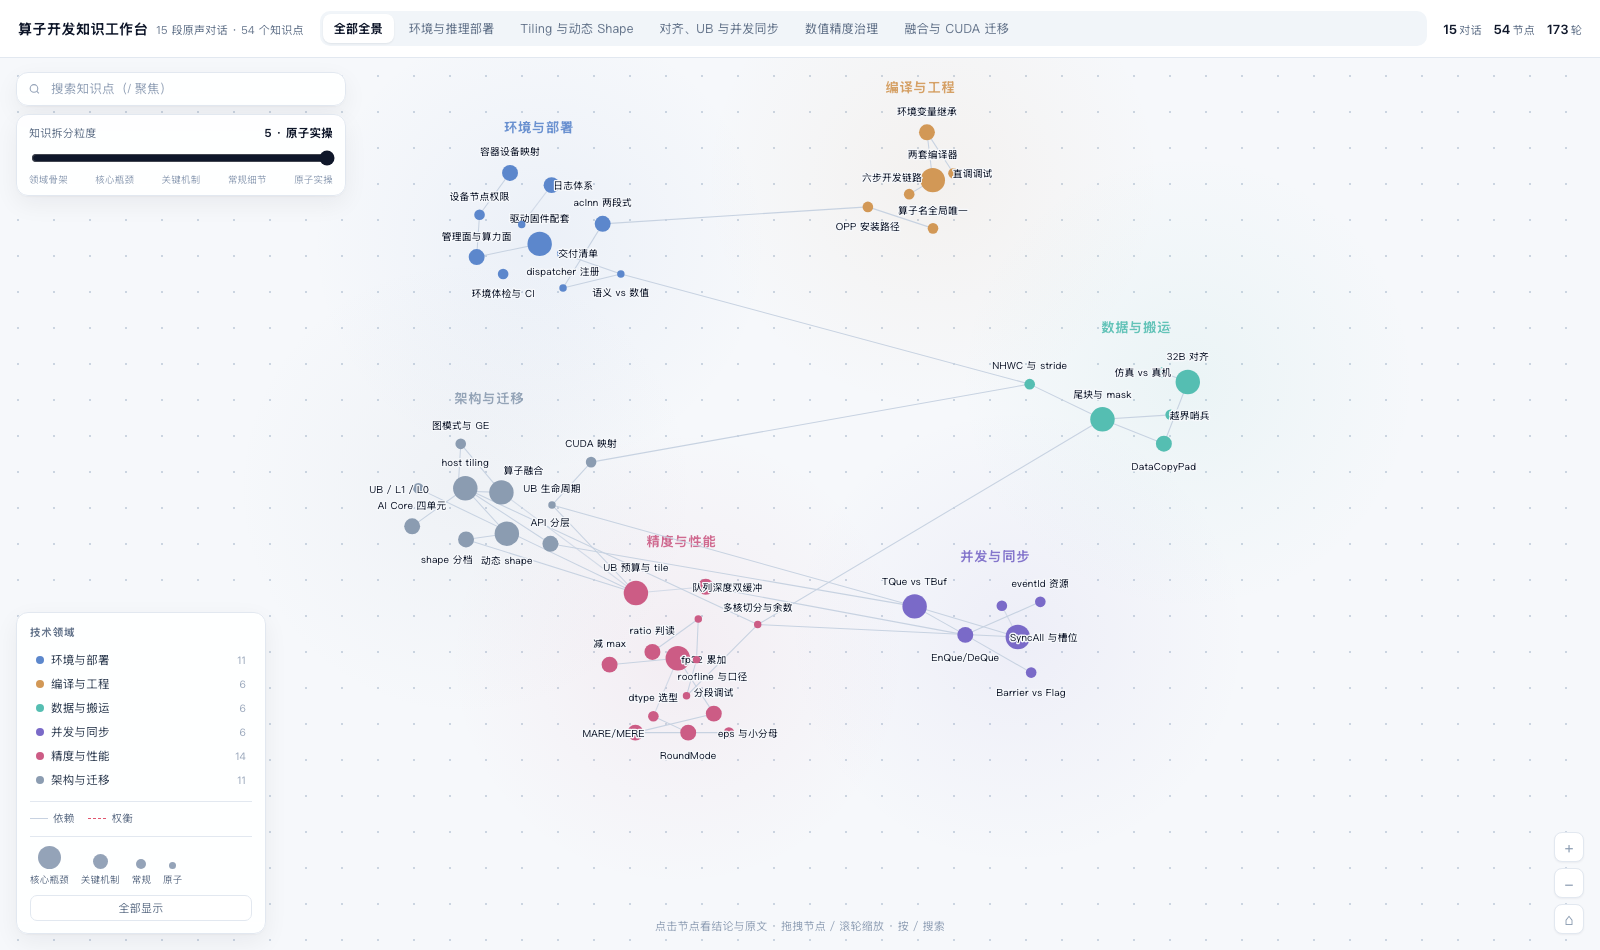
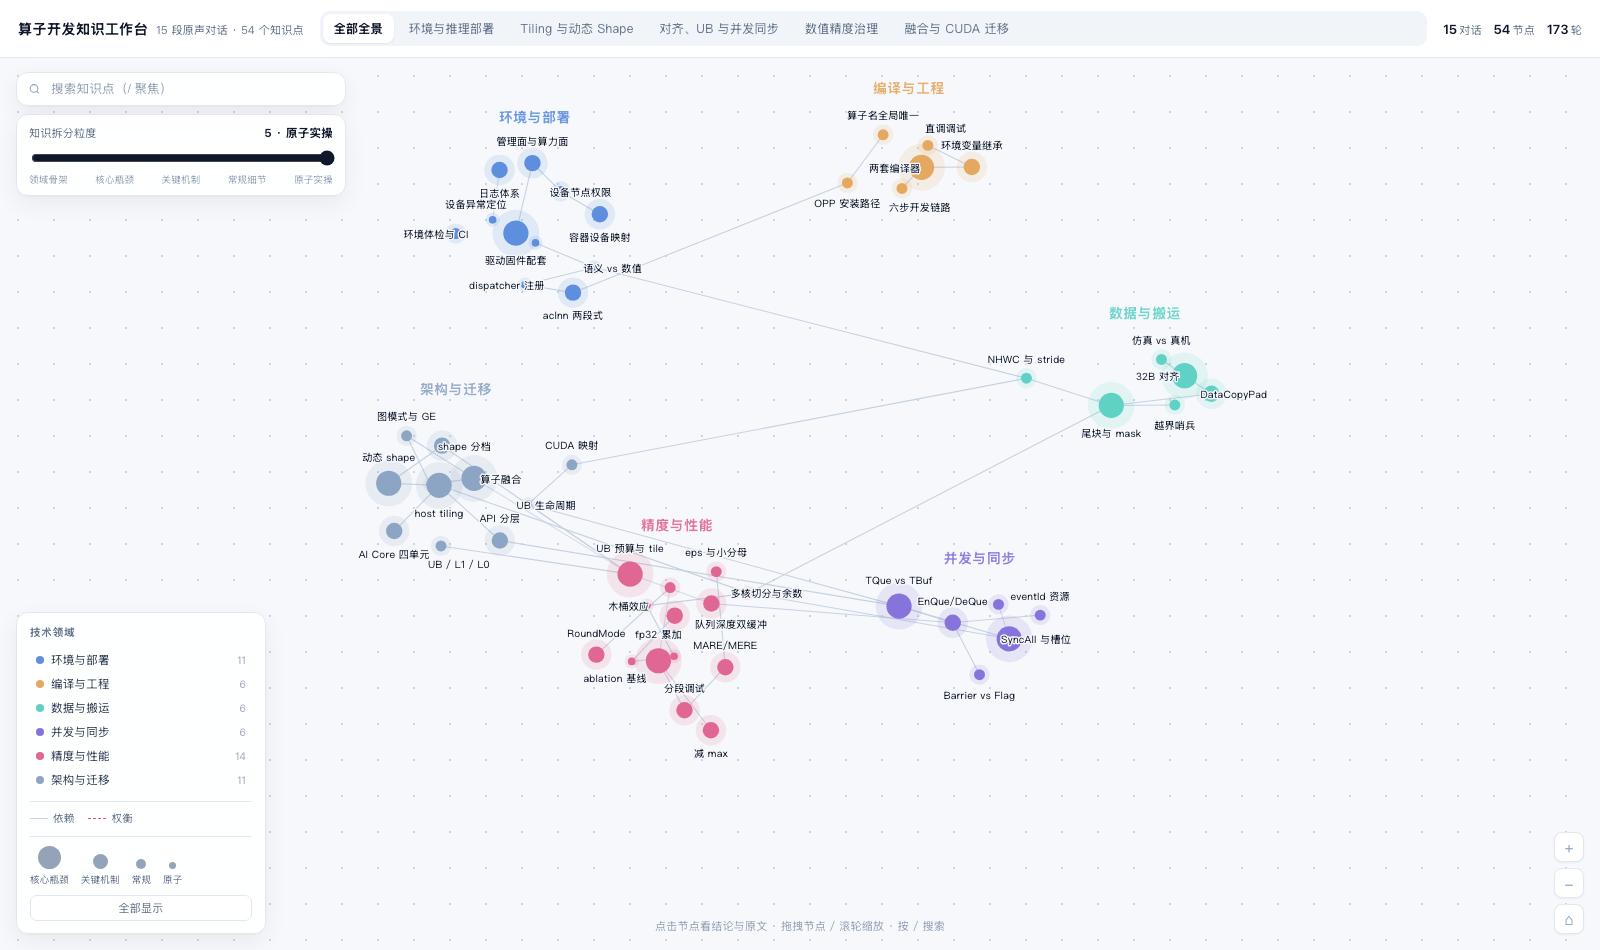
style: 奶油色板；域光晕仅交互出现；节点光圈常显

diff --git a/cann-dashboard/算子知识工作台.html b/cann-dashboard/算子知识工作台.html
@@ -79,14 +79,14 @@
 
   .zoom{position:absolute;right:16px;bottom:16px;z-index:8;display:flex;flex-direction:column;gap:6px}
   .zoom button{width:30px;height:30px;border-radius:8px;border:1px solid var(--line);background:#fff;
-    color:#8B9CB1;font-size:15px;cursor:pointer;line-height:1;box-shadow:0 1px 2px rgba(15,23,42,.05)}
+    color:#8DA5C4;font-size:15px;cursor:pointer;line-height:1;box-shadow:0 1px 2px rgba(15,23,42,.05)}
   .zoom button:hover{background:#F8FAFC}
 
   .hint{position:absolute;left:50%;bottom:16px;transform:translateX(-50%);z-index:7;font-size:11px;
     color:#94A3B8;pointer-events:none;white-space:nowrap}
 
   /* ---------- svg ---------- */
-  .glow{opacity:.55}
+  .glow{opacity:0;transition:opacity .28s}
   .domtitle{font-size:12.5px;font-weight:700;letter-spacing:.4px;opacity:.9}
   .edge{stroke:#C7D2E1;stroke-width:1;fill:none}
   .edge.dep{stroke:#C7D2E1}
@@ -94,8 +94,8 @@
   .edge.agg{stroke-opacity:.75}
   .node{cursor:pointer}
   .node .core{stroke:none}
-  .node .halo{opacity:0;transition:opacity .18s}
-  .node:hover .halo,.node.sel .halo{opacity:.26}
+  .node .halo{opacity:.14;transition:opacity .18s}
+  .node:hover .halo,.node.sel .halo{opacity:.34}
   .node.nb .halo{opacity:.14}
   .node text{font-size:9.2px;fill:#0F172A;text-anchor:middle;pointer-events:none;
     paint-order:stroke;stroke:var(--bg);stroke-width:2.6px;stroke-linejoin:round}
@@ -123,7 +123,7 @@
   .tags{display:flex;gap:6px;margin-bottom:7px}
   .tag{font-size:10px;padding:2px 7px;border-radius:20px;font-weight:600}
   .tag.dom{color:#fff}
-  .tag.w{background:#F1F5F9;color:#8B9CB1}
+  .tag.w{background:#F1F5F9;color:#8DA5C4}
   .tag.w3{background:#FEF3C7;color:#92400E}
   .tag.w2{background:#F1F5F9;color:#334155}
   .ins-title{font-size:17px;margin:0 0 6px;letter-spacing:.2px}
@@ -155,9 +155,9 @@
     100%{background:transparent;box-shadow:none}
   }
   .round-top{display:flex;align-items:center;gap:6px;font-size:10px;color:#94A3B8;margin-bottom:6px}
-  .round-top .rd{color:#8B9CB1;font-weight:700}
+  .round-top .rd{color:#8DA5C4;font-weight:700}
   .qa{display:flex;gap:8px;margin-bottom:6px}
-  .who{flex:0 0 32px;height:18px;border-radius:5px;background:#F1F5F9;color:#8B9CB1;font-size:9.5px;
+  .who{flex:0 0 32px;height:18px;border-radius:5px;background:#F1F5F9;color:#8DA5C4;font-size:9.5px;
     display:flex;align-items:center;justify-content:center;margin-top:2px}
   .who.a{background:#EFF6FF;color:#1D4ED8}
   .qa .tx{font-size:12px;line-height:1.72;color:#334155;flex:1;
@@ -235,7 +235,7 @@
 
 <script>
 /* ===== 数据 ===== */
-const DOMAINS=[{id: "env", name: "环境与部署", color: "#5C87CC", cx: 250, cy: 200}, {id: "build", name: "编译与工程", color: "#D29856", cx: 620, cy: 140}, {id: "data", name: "数据与搬运", color: "#55BEB2", cx: 860, cy: 330}, {id: "sync", name: "并发与同步", color: "#7A6AC8", cx: 700, cy: 570}, {id: "numperf", name: "精度与性能", color: "#CC5C85", cx: 380, cy: 590}, {id: "arch", name: "架构与迁移", color: "#8B9CB1", cx: 180, cy: 430}];
+const DOMAINS=[{id: "env", name: "环境与部署", color: "#5E8FDE", cx: 250, cy: 200}, {id: "build", name: "编译与工程", color: "#E5A861", cx: 620, cy: 140}, {id: "data", name: "数据与搬运", color: "#60D2C5", cx: 860, cy: 330}, {id: "sync", name: "并发与同步", color: "#8674DC", cx: 700, cy: 570}, {id: "numperf", name: "精度与性能", color: "#E06793", cx: 380, cy: 590}, {id: "arch", name: "架构与迁移", color: "#8DA5C4", cx: 180, cy: 430}];
 const SCENES=[{id: "all", name: "全部全景", ds: [1, 2, 3, 4, 5, 6, 7, 8, 9, 10, 11, 12, 13, 14, 15]}, {id: "s1", name: "环境与推理部署", ds: [1, 3, 13]}, {id: "s2", name: "Tiling 与动态 Shape", ds: [2, 6, 8]}, {id: "s3", name: "对齐、UB 与并发同步", ds: [4, 5, 9, 10]}, {id: "s4", name: "数值精度治理", ds: [7, 12, 14]}, {id: "s5", name: "融合与 CUDA 迁移", ds: [11, 12, 15]}];
 const DLG=[{n: 1, t: "容器里看不到卡", s: "环境"}, {n: 2, t: "Tiling 怎么设计", s: "方法论"}, {n: 3, t: "换了镜像编译不过", s: "编译"}, {n: 4, t: "1000 个元素全 0", s: "功能"}, {n: 5, t: "API 到底分几层", s: "概念"}, {n: 6, t: "多核偶发错", s: "并发"}, {n: 7, t: "Softmax 精度差一点", s: "精度"}, {n: 8, t: "动态 shape 怎么支持", s: "工程"}, {n: 9, t: "存量 kernel 的 SetFlag", s: "代码"}, {n: 10, t: "带宽只有 30%", s: "性能"}, {n: 11, t: "算子融合能救多少", s: "架构"}, {n: 12, t: "搬 CUDA LayerNorm", s: "迁移"}, {n: 13, t: "Python 里调不到", s: "部署"}, {n: 14, t: "fp16/bf16/fp32 怎么选", s: "数值"}, {n: 15, t: "评审被问住", s: "原理"}];
 const NODES=[{id: "n1", name: "驱动固件配套", dom: "env", w: 3, anchor: true, def: "驱动与固件必须同版本配套，错位往往只在重负载时才暴露。", pit: "Health 显示 Warning 不是装饰，它经常伪装成“算子写错了”。", refs: [1], turns: [{c: 1, t: 6}]}, {id: "n2", name: "容器设备映射", dom: "env", w: 2, anchor: false, def: "四个设备节点必须由 docker run 映射进来，容器里不会自动出现。", pit: "--privileged 只放开权限，不会凭空产生设备节点。", refs: [1], turns: [{c: 1, t: 1}, {c: 1, t: 2}, {c: 1, t: 3}, {c: 1, t: 4}, {c: 1, t: 8}, {c: 1, t: 11}]}, {id: "n3", name: "管理面与算力面", dom: "env", w: 2, anchor: false, def: "davinci_manager 管查询复位，davinci0 才是真正跑算子的设备。", pit: "缺 manager 时报的是“管理接口初始化失败”，极易误判成环境装坏。", refs: [1], turns: [{c: 1, t: 3}, {c: 1, t: 5}]}, {id: "n4", name: "设备节点权限", dom: "env", w: 1, anchor: false, def: "设备节点属 HwHiAiUser 组，容器用户不在组里就只剩 root 能用。", pit: "--group-add 要用组 ID，容器里往往没有这个组名。", refs: [1], turns: [{c: 1, t: 1}, {c: 1, t: 2}, {c: 1, t: 4}, {c: 1, t: 5}]}, {id: "n5", name: "日志体系", dom: "env", w: 2, anchor: false, def: "plog 记 host 侧，AI Core 的崩溃在 device 侧，要用 msnpureport 导。", pit: "只翻 /var/log 找不到 kernel 崩溃，是因为找错了地方。", refs: [1, 13], turns: [{c: 1, t: 8}, {c: 13, t: 3}, {c: 13, t: 4}, {c: 13, t: 7}]}, {id: "n6", name: "环境体检与 CI", dom: "env", w: 1, anchor: false, def: "按依赖顺序查：设备 → 环境变量 → OPP → 编译器，失败即退出。", pit: "顺序错了就会一直在“装没装坏”上绕圈。", refs: [1], turns: [{c: 1, t: 9}]}, {id: "n7", name: "两套编译器", dom: "build", w: 3, anchor: true, def: "op_kernel 走 ccec、op_host 走 g++，两套 ISA 两套 ABI。", pit: "kernel 文件放错目标，语法能过、符号找不到。", refs: [3], turns: [{c: 3, t: 1}, {c: 3, t: 3}, {c: 3, t: 4}, {c: 3, t: 5}, {c: 3, t: 9}]}, {id: "n8", name: "环境变量继承", dom: "build", w: 2, anchor: false, def: "source 只影响当前 shell，编译起的子进程不一定继承。", pit: "把 include 写死成绝对路径能编过，但换机器就废。", refs: [3], turns: [{c: 3, t: 2}, {c: 3, t: 3}, {c: 3, t: 10}]}, {id: "n9", name: "算子名全局唯一", dom: "build", w: 1, anchor: false, def: "算子类型名是全局注册键，重名会被覆盖或查到内置实现。", pit: "改名前记得三处一致：REG_OP、aclnn 接口、Python 封装。", refs: [3], turns: [{c: 3, t: 7}]}, {id: "n10", name: "OPP 安装路径", dom: "build", w: 1, anchor: false, def: "run 包默认装到用户目录，和 ASCEND_OPP_PATH 常常不是一个地方。", pit: "装完必须重新 source，环境变量里缓存了路径。", refs: [3, 13], turns: [{c: 3, t: 1}, {c: 3, t: 2}, {c: 3, t: 10}]}, {id: "n11", name: "直调调试", dom: "build", w: 1, anchor: false, def: "用 <<<>>> 直接调 kernel，跳过算子包安装这一整套。", pit: "直调对、打包偏，多半是 tiling 参数不一致。", refs: [3], turns: [{c: 3, t: 6}, {c: 3, t: 11}, {c: 3, t: 12}, {c: 3, t: 13}]}, {id: "n12", name: "六步开发链路", dom: "build", w: 1, anchor: false, def: "原型 → tiling → kernel → 编译 → 打包 → 调用，每步都有可验证的产物。", pit: "不知道卡在哪一步，就会反复怀疑环境。", refs: [3], turns: [{c: 3, t: 5}, {c: 3, t: 11}, {c: 3, t: 12}, {c: 3, t: 13}, {c: 3, t: 14}]}, {id: "n13", name: "32B 对齐", dom: "data", w: 3, anchor: true, def: "DMA 按 32 字节的块搬运，非对齐会截断或越界，而且不报错。", pit: "2000 是偶数，但不是 32 的倍数——偶数和倍数不是一回事。", refs: [4, 12], turns: [{c: 4, t: 1}, {c: 4, t: 2}, {c: 4, t: 3}, {c: 4, t: 11}]}, {id: "n14", name: "DataCopyPad", dom: "data", w: 2, anchor: false, def: "把“搬多少字节”和“真实多长”分开，自动处理非对齐。", pit: "blockLen 填的是字节数，不是元素个数。", refs: [4, 12], turns: [{c: 4, t: 1}, {c: 4, t: 3}, {c: 4, t: 4}, {c: 4, t: 5}, {c: 4, t: 6}, {c: 4, t: 7}, {c: 4, t: 10}]}, {id: "n15", name: "尾块与 mask", dom: "data", w: 3, anchor: false, def: "Pad 管“搬多少”，mask 管“算多少”，归约不能被填充值污染。", pit: "逐元素算子可以不管，归约类必须管。", refs: [4, 12, 8], turns: [{c: 4, t: 4}, {c: 4, t: 5}]}, {id: "n16", name: "越界哨兵", dom: "data", w: 1, anchor: false, def: "输出前后各留 64 字节填魔数，跑完检查有没有被改。", pit: "别用 0 当魔数，它本身就是最常见的数据。", refs: [4], turns: [{c: 4, t: 8}, {c: 4, t: 9}]}, {id: "n17", name: "仿真 vs 真机", dom: "data", w: 1, anchor: false, def: "仿真验逻辑，真机验对齐、容量、同步这些硬件约束。", pit: "仿真过、真机挂，先查对齐和容量，别改算法。", refs: [4], turns: [{c: 4, t: 11}]}, {id: "n18", name: "NHWC 与 stride", dom: "data", w: 1, anchor: false, def: "布局不同会让整块数据错位，结果看起来“差不多对但有偏差”。", pit: "全 1、全 0、单个 1，这三种输入比随机数好用。", refs: [13, 12], turns: [{c: 13, t: 8}, {c: 13, t: 9}]}, {id: "n19", name: "TQue vs TBuf", dom: "sync", w: 3, anchor: false, def: "TQue 带同步语义，TBuf 是裸内存，同步责任在你身上。", pit: "名字都带 buffer，但一个管事件，一个什么都不管。", refs: [9, 5], turns: [{c: 5, t: 8}, {c: 9, t: 1}, {c: 9, t: 2}, {c: 9, t: 3}, {c: 9, t: 4}, {c: 9, t: 8}]}, {id: "n20", name: "EnQue/DeQue", dom: "sync", w: 2, anchor: false, def: "在搬运与计算之间插一对 set/wait 事件，保证顺序。", pit: "它同步的是事件，不是内存屏障，不保证 cache 一致。", refs: [9], turns: [{c: 9, t: 1}, {c: 9, t: 2}, {c: 9, t: 3}, {c: 9, t: 4}, {c: 9, t: 5}, {c: 9, t: 7}, {c: 9, t: 11}]}, {id: "n21", name: "Barrier vs Flag", dom: "sync", w: 1, anchor: false, def: "同一 pipe 内用屏障，跨 pipe 用事件；前者正确但慢。", pit: "调试期用 PIPE_ALL 求稳，优化期换成精确事件。", refs: [9], turns: [{c: 9, t: 5}, {c: 9, t: 6}]}, {id: "n22", name: "eventId 资源", dom: "sync", w: 1, anchor: false, def: "硬件事件数量有限，框架内部也在用，撞了会互相“冒充”。", pit: "症状是偶发读到旧数据，改一行无关代码就好或更差。", refs: [9], turns: [{c: 9, t: 7}]}, {id: "n23", name: "SyncAll 与槽位", dom: "sync", w: 3, anchor: true, def: "所有核到齐才继续；workspace 按核独立分槽，用前清零。", pit: "有核没走到同步，就会挂死，而不是报错。", refs: [6, 9, 11], turns: [{c: 6, t: 1}, {c: 6, t: 5}, {c: 6, t: 6}, {c: 6, t: 10}]}, {id: "n24", name: "竞争的概率性", dom: "sync", w: 1, anchor: false, def: "几条流水各自推进、没有全局时钟，只有时序撞上才出错。", pit: "“跑几次都过”不能算验证，要放大 shape 和核数。", refs: [6, 9], turns: [{c: 9, t: 9}]}, {id: "n25", name: "减 max", dom: "numperf", w: 2, anchor: false, def: "先找 max、减掉、再 exp；既防溢出，也保住有效位。", pit: "顺序反了，减掉的是 exp 之后的最大值，已经不是 softmax。", refs: [7], turns: [{c: 7, t: 1}, {c: 7, t: 4}, {c: 7, t: 5}, {c: 7, t: 9}, {c: 7, t: 11}]}, {id: "n26", name: "fp32 累加", dom: "numperf", w: 3, anchor: true, def: "累加器用 fp32，存储仍保持 fp16，只转累加器不转整块。", pit: "fp16 累加会让“大数吃小数”，序列越长误差越大。", refs: [7, 12, 14], turns: [{c: 7, t: 1}, {c: 7, t: 6}, {c: 7, t: 9}, {c: 7, t: 10}, {c: 14, t: 6}]}, {id: "n27", name: "RoundMode", dom: "numperf", w: 2, anchor: false, def: "fp32→fp16 用就近舍入，fp16→fp32 用 CAST_NONE。", pit: "截断带来的偏差是系统性的，误差分布会明显偏一个方向。", refs: [7], turns: [{c: 7, t: 6}]}, {id: "n28", name: "MARE/MERE", dom: "numperf", w: 2, anchor: false, def: "一个看平均相对误差，一个看中位数，组合起来能判断误差类型。", pit: "只报一个数会误导优化方向：高+低是少数点炸了。", refs: [7, 14], turns: [{c: 7, t: 7}, {c: 14, t: 5}]}, {id: "n29", name: "eps 与小分母", dom: "numperf", w: 1, anchor: false, def: "相对误差在分母很小时被放大，用 max(sum, eps) 兜底。", pit: "sum + eps 会引入系统性偏差，尤其 sum 本身很小时。", refs: [7], turns: [{c: 7, t: 11}]}, {id: "n30", name: "分段调试", dom: "numperf", w: 2, anchor: false, def: "每一步打出来和 fp64 基准比，哪一段跳变，问题就在它的前一步。", pit: "基准别用 fp32，它自己有 1e-7 误差，会掩盖小问题。", refs: [7], turns: [{c: 7, t: 13}]}, {id: "n31", name: "dtype 选型", dom: "numperf", w: 1, anchor: false, def: "范围不够用 bf16，精度不够用 fp32，都不缺用 fp16。", pit: "全局 fp32 是最省事的偷懒，也是最容易在性能上吃亏的选择。", refs: [14, 7], turns: [{c: 14, t: 1}, {c: 14, t: 2}, {c: 14, t: 9}, {c: 14, t: 11}]}, {id: "n32", name: "多核切分与余数", dom: "numperf", w: 0, anchor: false, def: "按连续性、局部性、均衡选切分维度；余数摊到前几个核。", pit: "total/blockNum 会把余数丢掉，1002 个元素就有 2 个没人算。", refs: [2, 6], turns: [{c: 2, t: 2}, {c: 2, t: 3}, {c: 2, t: 7}, {c: 2, t: 8}, {c: 6, t: 4}, {c: 6, t: 11}]}, {id: "n33", name: "UB 预算与 tile", dom: "numperf", w: 3, anchor: false, def: "从 UB 容量倒推 tile，留 25% 余量，向下 32B 对齐。", pit: "tile 写死 8192，换个芯片就崩。", refs: [2, 8, 10], turns: [{c: 2, t: 4}, {c: 8, t: 4}, {c: 10, t: 2}]}, {id: "n34", name: "队列深度双缓冲", dom: "numperf", w: 2, anchor: false, def: "深度 2 让搬运和计算重叠，深度受 UB 容量限制。", pit: "深度 1 等于没有双缓冲，搬运和计算完全串行。", refs: [2, 9, 10], turns: [{c: 2, t: 4}, {c: 10, t: 2}]}, {id: "n35", name: "木桶效应", dom: "numperf", w: 0, anchor: false, def: "整体时间由最慢的那个核决定，不是平均值。", pit: "余数全给最后一个核，会让它明显变慢，整体更慢。", refs: [2, 6, 10], turns: [{c: 2, t: 3}, {c: 2, t: 7}, {c: 6, t: 11}]}, {id: "n36", name: "ratio 判读", dom: "numperf", w: 2, anchor: false, def: "mte2 低不等于搬运不是瓶颈，要看 tile 大小和并行度。", pit: "两个 ratio 都低，通常是调度或同步开销。", refs: [10], turns: [{c: 10, t: 1}, {c: 10, t: 5}, {c: 10, t: 6}]}, {id: "n37", name: "ablation 基线", dom: "numperf", w: 0, anchor: false, def: "先做“只搬不算”，测出这条链路的搬运上限，再谈优化。", pit: "同时改多个变量，等于什么都没测出来。", refs: [10], turns: [{c: 10, t: 4}]}, {id: "n38", name: "roofline 与口径", dom: "numperf", w: 0, anchor: false, def: "用实测上限当分母判断差距；小 shape 别看带宽，看延迟。", pit: "大小 shape 混在一起算均值，会让优化方向跑偏。", refs: [10, 11], turns: [{c: 10, t: 7}, {c: 10, t: 9}, {c: 10, t: 10}]}, {id: "n39", name: "host tiling", dom: "arch", w: 3, anchor: true, def: "没有线程抽象、UB 小、二进制静态展开，所以切分只能在 host 侧算好。", pit: "kernel 只负责“按给定切分执行”，不决定“怎么切”。", refs: [15, 2], turns: [{c: 2, t: 10}, {c: 15, t: 1}, {c: 15, t: 2}, {c: 15, t: 11}]}, {id: "n40", name: "AI Core 四单元", dom: "arch", w: 2, anchor: false, def: "Scalar 指挥，Vector 逐元素，Cube 矩阵，MTE 搬运，三条流水。", pit: "Scalar 性能差但不可少，它干的是控制流。", refs: [15], turns: [{c: 15, t: 2}, {c: 15, t: 3}, {c: 15, t: 4}, {c: 15, t: 6}]}, {id: "n41", name: "UB / L1 / L0", dom: "arch", w: 1, anchor: false, def: "UB 服务 Vector，L1 与 L0A/B/C 服务 Cube，是两块独立空间。", pit: "把 UB 当 L1 用来算容量，会低估占用。", refs: [15, 12], turns: [{c: 15, t: 3}, {c: 15, t: 4}, {c: 15, t: 6}]}, {id: "n42", name: "API 分层", dom: "arch", w: 2, anchor: false, def: "四层：语言扩展、基础 API、高阶 API、框架接口；能用上层别下沉。", pit: "一上来手写全套流水，时间会全花在同步和精度上。", refs: [5, 15], turns: [{c: 5, t: 1}, {c: 5, t: 5}, {c: 15, t: 9}]}, {id: "n43", name: "图模式与 GE", dom: "arch", w: 1, anchor: false, def: "GE 管多个算子怎么排，aclnn 管单个算子怎么调，OPP 是仓库。", pit: "图里慢了，很难判断是算子问题还是调度问题。", refs: [15, 11], turns: [{c: 15, t: 7}, {c: 15, t: 8}]}, {id: "n44", name: "CUDA 映射", dom: "arch", w: 1, anchor: false, def: "线程级并行换成“核 + 指令 lane”，shared memory 换成显式 UB。", pit: "逐行翻译会得到一份能跑但很慢的代码。", refs: [12], turns: [{c: 12, t: 1}, {c: 12, t: 2}, {c: 12, t: 4}, {c: 12, t: 5}, {c: 12, t: 8}]}, {id: "n45", name: "动态 shape", dom: "arch", w: 3, anchor: false, def: "每次调用都重算一次 tiling，kernel 不假设任何编译期常量。", pit: "tile 写死，换个 shape 就错，而且只在那个 shape 上错。", refs: [8], turns: [{c: 8, t: 1}, {c: 8, t: 2}, {c: 8, t: 3}, {c: 8, t: 4}, {c: 8, t: 5}, {c: 8, t: 7}, {c: 8, t: 9}, {c: 8, t: 10}]}, {id: "n46", name: "shape 分档", dom: "arch", w: 2, anchor: false, def: "把连续 shape 映射到几档参数，档内取上界，边界用实测定。", pit: "按 2 的幂拍档位，往往不是性能拐点。", refs: [2, 8], turns: [{c: 2, t: 6}, {c: 8, t: 9}, {c: 8, t: 11}]}, {id: "n47", name: "算子融合", dom: "arch", w: 3, anchor: false, def: "省掉中间结果的 GM 往返，收益取决于访存能减少多少。", pit: "省不下访存的融合，只是在增加复杂度。", refs: [11], turns: [{c: 11, t: 1}, {c: 11, t: 2}, {c: 11, t: 3}, {c: 11, t: 4}, {c: 11, t: 6}, {c: 11, t: 7}]}, {id: "n48", name: "何时拆 kernel", dom: "arch", w: 0, anchor: false, def: "中间结果放不下、单元配比差、需要可调试时，拆比融合好。", pit: "融合后变慢，通常是 UB 放不下或并行度下降。", refs: [11, 15], turns: [{c: 11, t: 2}, {c: 11, t: 3}, {c: 11, t: 4}, {c: 11, t: 6}, {c: 11, t: 7}, {c: 15, t: 1}]}, {id: "n49", name: "UB 生命周期", dom: "arch", w: 0, anchor: false, def: "UB 要显式分配、搬入、算完、还回，没有自动缓存这回事。", pit: "忘了还就卡住，忘了搬就是空数据。", refs: [12, 5], turns: [{c: 15, t: 1}]}, {id: "n50", name: "aclnn 两段式", dom: "env", w: 2, anchor: false, def: "先问 workspace 多大，再执行；workspace 由调用方分配。", pit: "同 shape 可以复用，别每一步都 malloc/free。", refs: [13, 8], turns: [{c: 8, t: 2}, {c: 8, t: 5}, {c: 8, t: 6}, {c: 8, t: 7}, {c: 13, t: 2}, {c: 13, t: 3}, {c: 13, t: 6}, {c: 13, t: 10}]}, {id: "n51", name: "dispatcher 注册", dom: "env", w: 0, anchor: false, def: "报 PrivateUse1 是“没注册实现”，不是“算子没装上”。", pit: "走 op-plugin 要补 schema、kernel、meta 三样，缺一个就挂。", refs: [13], turns: [{c: 13, t: 1}]}, {id: "n52", name: "设备异常定位", dom: "env", w: 0, anchor: false, def: "导 device 日志，看第一条 trap、PC 地址、访问的地址和长度。", pit: "最后一条通常是连锁反应，别从那里开始看。", refs: [13], turns: [{c: 13, t: 4}, {c: 13, t: 5}]}, {id: "n53", name: "语义 vs 数值", dom: "env", w: 0, anchor: false, def: "先排 dtype、布局、broadcast，再谈精度问题。", pit: "全 1 / 全 0 / 单个 1，比随机数更能暴露位置错。", refs: [13], turns: [{c: 13, t: 8}]}, {id: "n54", name: "交付清单", dom: "env", w: 0, anchor: false, def: "算子包、接口说明、支持矩阵、精度报告、性能数据、已知限制。", pit: "漏了支持矩阵，往往上线后才发现某个 shape 不支持。", refs: [13, 11], turns: [{c: 13, t: 10}]}];
@@ -398,6 +398,7 @@ function renderDomains(list){
     const members=list.filter(n=>n.dom===d.id);
     const c=document.createElementNS(NS,'circle');
     c.setAttribute('cx',d.cx); c.setAttribute('cy',d.cy); c.setAttribute('r',215);
+    c.dataset.dom=d.id;
     c.setAttribute('fill',`url(#glow-${d.id})`); c.setAttribute('class','glow');
     gg.appendChild(c);
     if(!members.length) return;
@@ -555,15 +556,22 @@ function neighbors(id){
 }
 function applyHighlight(){
   const focus=state.sel||state.hover;
+  const glows=document.querySelectorAll('#glows .glow');
   NODES.forEach(n=>{
     n.__el.classList.remove('dim','nb','sel');
   });
   if(!focus){
+    glows.forEach(g=>g.style.opacity=0);
     document.querySelectorAll('.eglabel').forEach(e=>e.remove());
     AGG.forEach(e=>{ e.__el.setAttribute('stroke-opacity','1'); e.__el.removeAttribute('marker-end'); });
     return;
   }
   const nb=neighbors(focus);
+  const focusDom=nodeById[focus].dom;
+  const nbDoms=new Set([...nb].map(id=>nodeById[id].dom));
+  glows.forEach(g=>{
+    g.style.opacity = g.dataset.dom===focusDom ? 1 : (nbDoms.has(g.dataset.dom)? .45 : 0);
+  });
   NODES.forEach(n=>{
     if(n.__el.style.display==='none') return;
     n.__el.classList.toggle('sel', n.id===state.sel);
